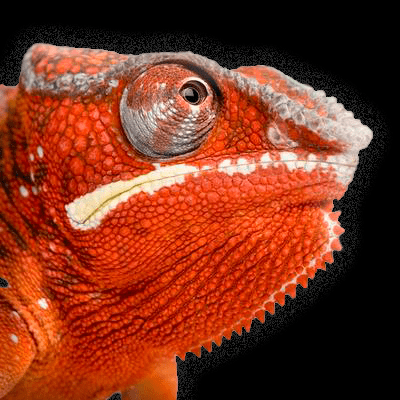
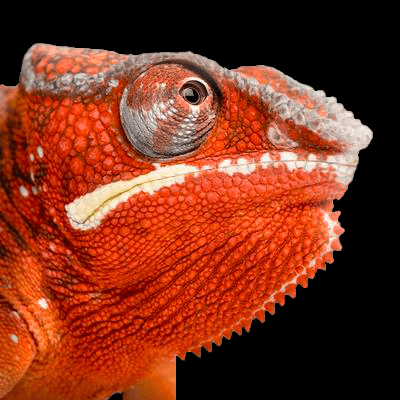
alteracao nas imagens do slide

Changed region(s): [[0.0, 0.06, 0.96, 1.0], [0.27, 0.96, 0.33, 1.0], [0.0, 0.69, 0.03, 0.72]]

diff --git a/index.html b/index.html
@@ -5,29 +5,29 @@
     <meta name="viewport" content="width=device-width, initial-scale=1.0" />
     <meta http-equiv="X-UA-Compatible" content="ie=edge" />
     <link rel="stylesheet" href="css/style.css" />
-    <title>Slide Curso JavaScript</title>
+    <title>Chamelor</title>
   </head>
   <body>
     <div class="slide-wrapper">
       <ul class="slide">
-        <li><img src="img/camaleos/blue.png" alt="camaleão azul" /></li>
-        <li><img src="img/camaleos/gray.png" alt="camaleão cinza" /></li>
-        <li><img src="img/camaleos/green.png" alt="camaleão verde" /></li>
+        <li><img src="img/bgBlack/blue.png" alt="camaleão azul" /></li>
+        <li><img src="img/bgBlack/gray.png" alt="camaleão cinza" /></li>
+        <li><img src="img/bgBlack/green.png" alt="camaleão verde" /></li>
         <li>
-          <img src="img/camaleos/limonGreen.png" alt="camaleão verde limão" />
+          <img src="img/bgBlack/greenLimon.png" alt="camaleão verde limão" />
         </li>
-        <li><img src="img/camaleos/orange.png" alt="camaleão laranja" /></li>
-        <li><img src="img/camaleos/pink.png" alt="camaleão rosa" /></li>
-        <li><img src="img/camaleos/purple.png" alt="camaleão roxo" /></li>
-        <li><img src="img/camaleos/yellow.png" alt="camaleão amarelo" /></li>
+        <!-- <li><img src="img/bgBlack/red.png" alt="camaleão vermelho" /></li> -->
+        <li><img src="img/bgBlack/orange.png" alt="camaleão laranja" /></li>
+        <!-- <li><img src="img/bgBlack/pink.png" alt="camaleão rosa" /></li> -->
+        <li><img src="img/bgBlack/purple.png" alt="camaleão roxo" /></li>
+        <li><img src="img/bgBlack/yellow.png" alt="camaleão amarelo" /></li>
       </ul>
     </div>
 
-    <div>
+    <div class="slide-navegacao">
       <button class="prev">Prev</button>
       <button class="next">Next</button>
     </div>
-
     <script type="module" src="js/script.js"></script>
   </body>
 </html>

diff --git a/css/style.css b/css/style.css
@@ -6,13 +6,13 @@
 
 .slide-wrapper {
   overflow: hidden;
-  background-color: black;
 }
 
 .slide {
   list-style: none;
   display: flex;
   height: 70vh;
+  margin: 40px 0;
 }
 
 .slide:hover {
@@ -23,7 +23,6 @@
   width: 80vw;
   max-width: 800px;
   flex-shrink: 0;
-
   border-radius: 4px;
   overflow: hidden;
   box-shadow: 0 2px 4px rgba(0, 0, 0, 0.4);
@@ -36,7 +35,6 @@
 img {
   display: block;
   width: 100%;
-  max-width: 100%;
   height: 100%;
   object-fit: cover;
 }
@@ -57,7 +55,7 @@ img {
   display: block;
   width: 12px;
   height: 12px;
-  background: white;
+  background: black;
   border-radius: 50%;
   overflow: hidden;
   text-indent: -999px;
